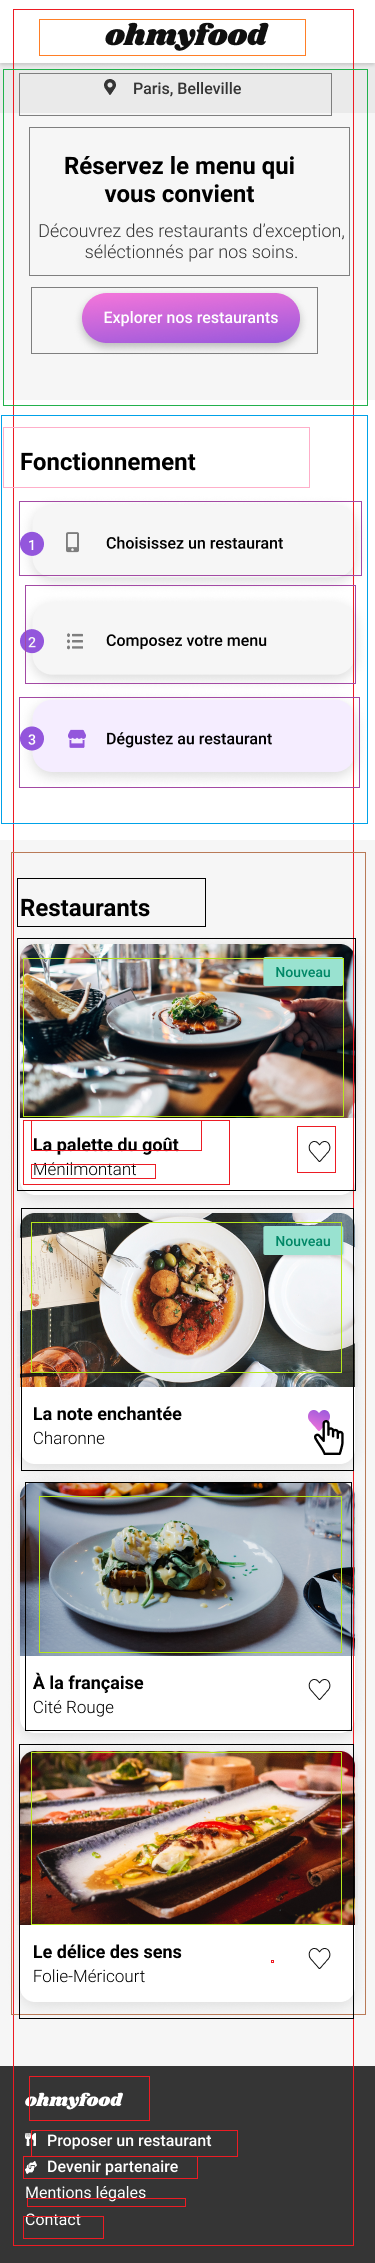
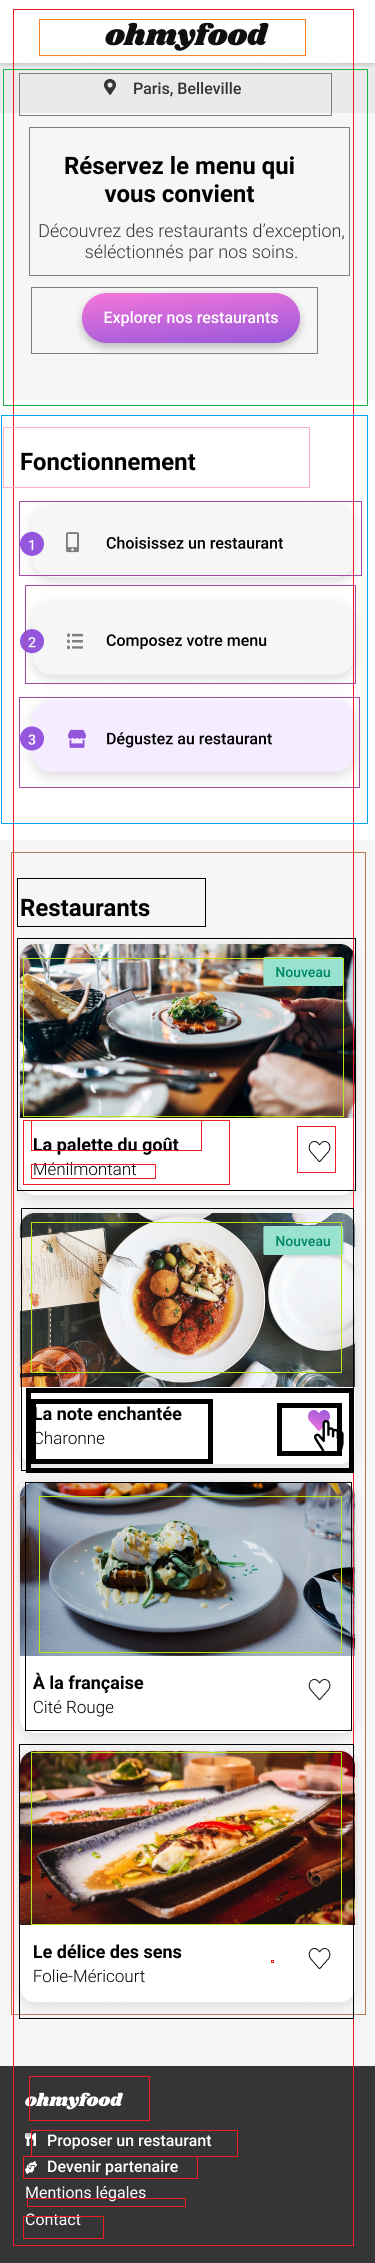
revue section creation s3

Changed region(s): [[0.0587, 0.6186, 0.5867, 0.6496], [0.7333, 0.6186, 0.9387, 0.6496]]

diff --git a/writting-sass/FichierSass.scss b/writting-sass/FichierSass.scss
@@ -2,6 +2,7 @@ $color-primary:#9356DC;
 $color-secondary:#FF79DA;
 $color-tertiary:#99E2D0;
 $font-size:7rem 5rem 4rem 2rem;
+
 /* GENERAL */
 
 * {
@@ -10,7 +11,6 @@ $font-size:7rem 5rem 4rem 2rem;
     box-sizing: border-box;
 }
 body{
-    font-family: Shrikhand, Roboto, sans-serif;
     font-size: 16px;
     line-height: 20px;
 }
@@ -18,7 +18,12 @@ body{
     display: flex;
     flex-direction: column;
 }
-
+h2{
+    font-family:Shrikhand;
+}
+p{
+    font-family: Roboto;
+}
 /* HEADER */
 
 header{
@@ -30,7 +35,6 @@ header{
     }
         .logo{
             width: 50%;
-            height: 80px;
         }
 }
 /* RESERVE*/
@@ -62,33 +66,125 @@ header{
         display: flex;
         flex-direction: column;
         h2{
-            margin: 2rem 5rem;
+            font-size: 2rem;
+            margin: 3rem 4rem 1.5rem 4rem;
+            text-align: center;
         } 
         p{
-            margin: 1rem 5rem;
+            font-size: 1.5rem;
+            margin: 0 1rem;
+            text-align: center;
+        }
+        .explore{
+            width: 50%;
+            height: 3rem;
+            margin:3rem auto;
+            border-radius: 2rem;
+            border-style: none;
+            color: white;
+            background-color: $color-secondary;
         }
     }
-    .explore{
-        width: 50%;
-        height: 3rem;
-        margin: auto;
-        border-radius: 2rem;
-        color: white;
-        background-color: $color-secondary;
-    }
+    
 }
 
 /* Fonctionnement */
 
 .Fonctionnement{
-    margin-top: 1rem;
+    margin: 4rem 0;
     h2{
-        margin-left: 1rem;
+        margin: 1rem;
     }
-    button{
+    nav{
         display: flex;
         flex-direction: column;
+        gap: 2rem;
+        width: 90%;
         margin: auto;
+            a{
+            font-size: 1.5rem;
+            height: 5rem;
+            position: relative;
+            display: flex;
+            justify-content: flex-start;
+            align-items: center;
+            gap: 1rem;
+            padding: 1rem 2rem;
+            color: black;
+            background-color: #eaeaea;
+            border: 1px solid transparent;
+            border-radius: 1rem;
+            text-decoration: none;
+            box-shadow: 0 .75rem .75rem rgba(0, 0, 0, .2);
+            transition: all 200ms linear;
+            }
     }
+    nav a:hover,
+    nav a:focus,
+    nav a.active {
+        background-color: #e5b9e5;
+        color: purple;	
+    }
+    nav a:focus {
+        border: 1px solid purple;
+        outline: none;
+    }
+    nav a::before {
+        display: block;
+        position: absolute;
+        left: -12px;
+        top: 25px;
+        height: 25px;
+        width: 25px;
+        line-height: 25px;
+        text-align: center;
+        color: white;
+        background-color: purple;
+        border-radius: 100%;
+    }
+    nav a:nth-child(1)::before { content: "1"; }
+    nav a:nth-child(2)::before { content: "2"; }
+    nav a:nth-child(3)::before { content: "3"; }
+}
 
+/* MENU */
+
+.menu{
+    background-color: #eaeaea;
+        h2{
+            margin: 4rem 0 0 2rem;
+        }
+        .card{
+            display: flex;
+            flex-direction: column;
+            margin: 2rem;    
+                img{
+                object-fit: cover;
+                object-position: center center;
+                border-radius: .75rem .75rem 0 0;
+                }
+                div{
+                    display: flex;
+                    justify-content: space-between;
+                    border-radius: 0 0 .75rem .75rem;
+                    background-color: white;
+                    padding-left: 0.5rem;
+                    div{
+                        flex-direction: column;
+                        margin: 1rem 0;
+                        h3{
+                        }
+                        p{
+                            margin-top: 0.2rem;
+                        }
+                    }
+                    .far{
+                        margin: 1rem 3rem 0 0;
+                        .far :active{
+                            color: purple;
+                        }
+                    }
+                }
+            
+        }          
 }

diff --git a/writting-sass/P3_03_styles.css b/writting-sass/P3_03_styles.css
@@ -6,7 +6,6 @@
 }
 
 body {
-  font-family: Shrikhand, Roboto, sans-serif;
   font-size: 16px;
   line-height: 20px;
 }
@@ -14,6 +13,14 @@ body {
 .container {
   display: flex;
   flex-direction: column;
+}
+
+h2 {
+  font-family: Shrikhand;
+}
+
+p {
+  font-family: Roboto;
 }
 
 /* HEADER */
@@ -27,7 +34,6 @@ header a {
 }
 header .logo {
   width: 50%;
-  height: 80px;
 }
 
 /* RESERVE*/
@@ -60,31 +66,125 @@ header .logo {
   flex-direction: column;
 }
 .reserve .introduction h2 {
-  margin: 2rem 5rem;
+  font-size: 2rem;
+  margin: 3rem 4rem 1.5rem 4rem;
+  text-align: center;
 }
 .reserve .introduction p {
-  margin: 1rem 5rem;
+  font-size: 1.5rem;
+  margin: 0 1rem;
+  text-align: center;
 }
-.reserve .explore {
+.reserve .introduction .explore {
   width: 50%;
   height: 3rem;
-  margin: auto;
+  margin: 3rem auto;
   border-radius: 2rem;
+  border-style: none;
   color: white;
   background-color: #FF79DA;
 }
 
 /* Fonctionnement */
 .Fonctionnement {
-  margin-top: 1rem;
+  margin: 4rem 0;
 }
 .Fonctionnement h2 {
-  margin-left: 1rem;
+  margin: 1rem;
 }
-.Fonctionnement button {
+.Fonctionnement nav {
   display: flex;
   flex-direction: column;
+  gap: 2rem;
+  width: 90%;
   margin: auto;
+}
+.Fonctionnement nav a {
+  font-size: 1.5rem;
+  height: 5rem;
+  position: relative;
+  display: flex;
+  justify-content: flex-start;
+  align-items: center;
+  gap: 1rem;
+  padding: 1rem 2rem;
+  color: black;
+  background-color: #eaeaea;
+  border: 1px solid transparent;
+  border-radius: 1rem;
+  text-decoration: none;
+  box-shadow: 0 0.75rem 0.75rem rgba(0, 0, 0, 0.2);
+  transition: all 200ms linear;
+}
+.Fonctionnement nav a:hover,
+.Fonctionnement nav a:focus,
+.Fonctionnement nav a.active {
+  background-color: #e5b9e5;
+  color: purple;
+}
+.Fonctionnement nav a:focus {
+  border: 1px solid purple;
+  outline: none;
+}
+.Fonctionnement nav a::before {
+  display: block;
+  position: absolute;
+  left: -12px;
+  top: 25px;
+  height: 25px;
+  width: 25px;
+  line-height: 25px;
+  text-align: center;
+  color: white;
+  background-color: purple;
+  border-radius: 100%;
+}
+.Fonctionnement nav a:nth-child(1)::before {
+  content: "1";
+}
+.Fonctionnement nav a:nth-child(2)::before {
+  content: "2";
+}
+.Fonctionnement nav a:nth-child(3)::before {
+  content: "3";
+}
+
+/* MENU */
+.menu {
+  background-color: #eaeaea;
+}
+.menu h2 {
+  margin: 4rem 0 0 2rem;
+}
+.menu .card {
+  display: flex;
+  flex-direction: column;
+  margin: 2rem;
+}
+.menu .card img {
+  object-fit: cover;
+  object-position: center center;
+  border-radius: 0.75rem 0.75rem 0 0;
+}
+.menu .card div {
+  display: flex;
+  justify-content: space-between;
+  border-radius: 0 0 0.75rem 0.75rem;
+  background-color: white;
+  padding-left: 0.5rem;
+}
+.menu .card div div {
+  flex-direction: column;
+  margin: 1rem 0;
+}
+.menu .card div div p {
+  margin-top: 0.2rem;
+}
+.menu .card div .far {
+  margin: 1rem 3rem 0 0;
+}
+.menu .card div .far .far :active {
+  color: purple;
 }
 
 /*# sourceMappingURL=P3_03_styles.css.map */

diff --git a/P3_02_index.html b/P3_02_index.html
@@ -30,14 +30,38 @@
       <div class="introduction">
         <h2>Réservez le menu qui vous convient</h2>
         <p>Découvrez des restaurants d'exception,<br> séléctionnés par nos soins.</p>
+        <button type="button" class="explore">Explorer nos restaurants</button>
       </div>
-      <button type="button" class="explore">Explorer nos restaurants</button>
     </section>
     <section class="Fonctionnement">
       <h2>Fonctionnement</h2>
-      <button>Choisissez un restaurant</button>
-      <button>Composez votre menu</button>
-      <button>Dégustez au restaurant</button>
+      <nav>
+        <a href="#">
+          <i class="fa fa-fw fa-mobile-alt"></i>
+          Choisissez un restaurant
+        </a>
+        <a href="#">
+          <i class="fa fa-fw fa-list"></i>
+          Composez votre menu
+        </a>
+        <a href="#" class="active">
+          <i class="fa fa-fw fa-store"></i>
+          Dégustez au restaurant
+        </a>
+      </nav>
+    </section>
+    <section class="menu">
+        <h2>Restaurants</h2>
+        <div class="card">
+          <img src="P3_01_Maquettes Ohmyfood/images/restaurants/jay-wennington-N_Y88TWmGwA-unsplash.jpg">
+          <div>
+            <div>
+              <h3>La palette du goût</h3>
+              <p>Ménilmontant</p>
+            </div>
+            <i class="far fa-heart fa-2x"></i>
+          </div>
+        </div>
     </section>
   </div>
 </body>
